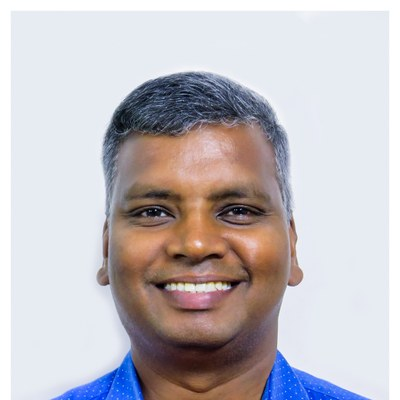
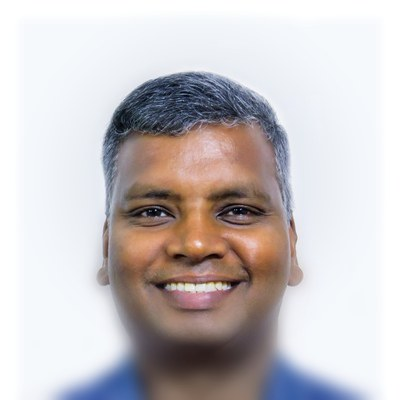
Calm the advisory portraits, and drop the per-card badge
The photographs come from a garden, a lecture hall, an office, a studio and a
blue screen, and side by side in a row of circles the backgrounds argued with
each other more than the faces did. Nothing is cut out — there is no
segmentation here — but the centre stays as shot while everything towards the
rim is progressively blurred and drained of colour. The face is untouched;
what surrounds it stops competing. The avatar renders as a circle, so the
corners were never seen anyway.

The "Advisory Board" badge comes off each card. The panel it sits in is
already headed Advisory Board, so thirteen copies of the same word said
nothing and cost a line of height on every card.

diff --git a/src/components/landing/LandingPage.tsx b/src/components/landing/LandingPage.tsx
@@ -1443,10 +1443,7 @@ export function LandingPage() {
                     <div className="flex justify-center mb-3">
                       <Avatar name={p.name} size="sm" />
                     </div>
-                    <p className="badge bg-blue-100 text-blue-800">
-                      Advisory Board
-                    </p>
-                    <p className="text-sm font-semibold text-slate-900 mt-2 dark:text-slate-100">
+                    <p className="text-sm font-semibold text-slate-900 dark:text-slate-100">
                       {p.name}
                     </p>
                     <p className="text-xs text-slate-500 mt-1">{p.org}</p>
